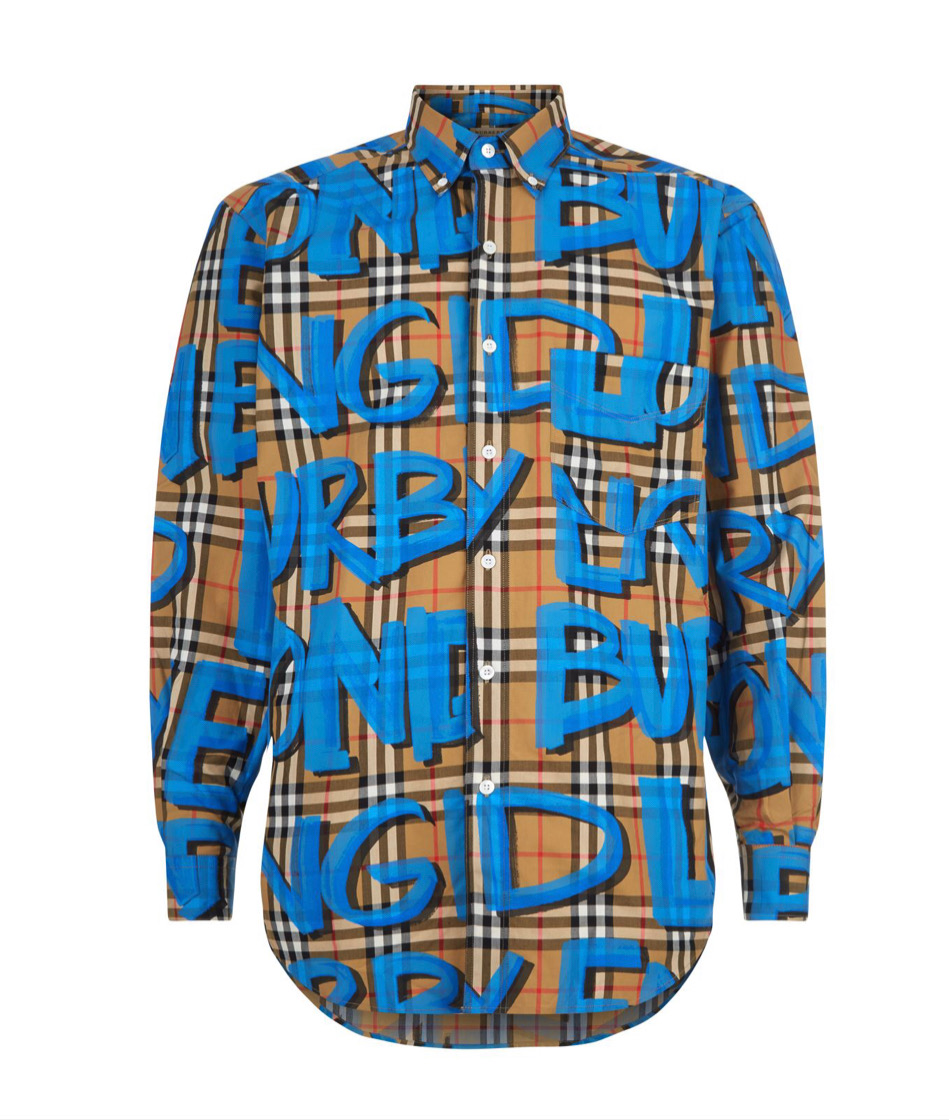
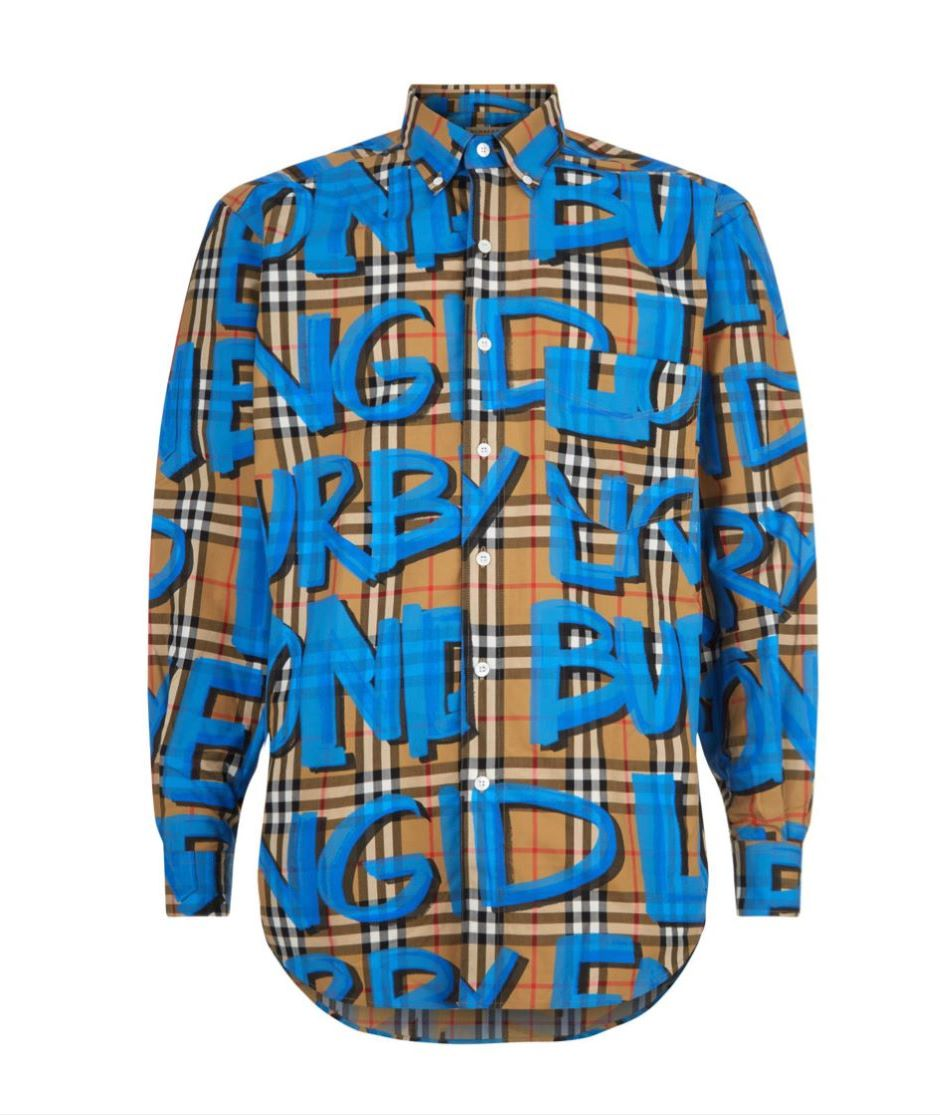
resize image width

diff --git a/css/style.css b/css/style.css
@@ -656,7 +656,7 @@ p a:hover {
 }
 
 .thumbnail_about {
-	 width: 230px;
+	 width: 223px;
 	 height: 215px;
 	 border: 1px solid #fbd0d0;
 	 border-radius: 5px;
